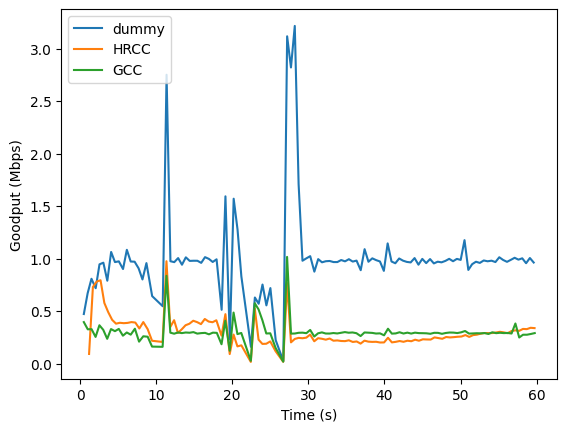
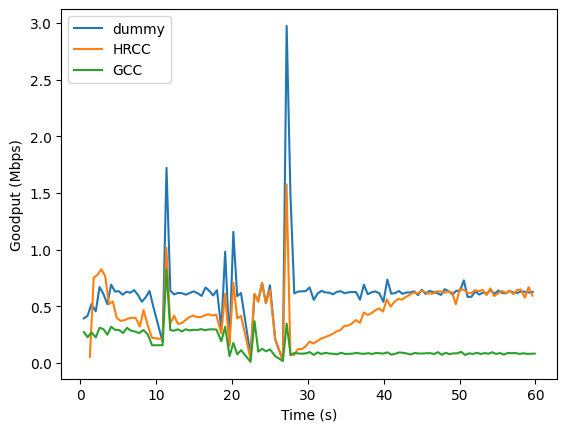
update

diff --git a/utils/draw.py b/utils/draw.py
@@ -1,0 +1,192 @@
+import sys
+import os
+project_root = os.path.dirname(os.path.dirname(os.path.abspath(__file__)))
+sys.path.append(project_root)
+
+from evaluate.utils.net_info import NetInfo
+from evaluate.utils.net_eval_method import NetEvalMethodExtension
+
+from evaluate.eval_video import init_video_argparse, get_video_score
+from evaluate.eval_network import init_network_argparse, get_network_score
+
+from utils.ssim import calculate_video_ssim
+
+import numpy as np
+import matplotlib.pyplot as plt
+import argparse
+import json
+from itertools import cycle
+
+def draw_goodput(time_nbytes_list: list, algs_list: list, save_file_name="hrcc_dummy_put.png", min_gap=500, duration=60):
+    plt.figure()
+    for idx, time_nbytes in enumerate(time_nbytes_list):
+        timestamps = list(time_nbytes.keys())
+        nbytes = list(time_nbytes.values())
+        rel_stamps = [timestamps[i]-timestamps[0] for i in range(len(timestamps))]
+        goodput_list = []
+        prev_time = rel_stamps[0]
+
+        goodput_gap = nbytes[1]
+        goodput_time = []
+        for i in range(1, len(time_nbytes)):
+            if rel_stamps[i] - prev_time < min_gap:
+                goodput_gap += nbytes[i]
+                continue
+            else:
+                goodput_list.append((goodput_gap * 8. /1000.) / (rel_stamps[i] - prev_time) )
+                goodput_time.append(rel_stamps[i])
+                prev_time = rel_stamps[i]
+                goodput_gap = 0
+        
+        plt.plot(goodput_time, goodput_list,  label=algs_list[idx])
+    
+    xticks = np.arange(0, duration*1000+1, 10000)
+    xtick_labels = (xticks / 1000).astype(int)
+    plt.xticks(xticks, xtick_labels)
+    plt.ylabel("Goodput (Mbps)")
+    plt.xlabel("Time (s)")
+    plt.legend(loc='upper left')
+    plt.savefig(f"share/output/figures/{save_file_name}", bbox_inches='tight')
+    
+    return timestamps, rel_stamps
+
+def draw_score(case_name, save_file_name="score.png"):
+    scores = []
+    for alg_name in ["dummy", "HRCC"]:
+        video_parser = init_video_argparse()
+        network_parser = init_network_argparse()
+        parser = argparse.ArgumentParser(parents=[video_parser, network_parser], conflict_handler='resolve')
+        args = parser.parse_args([])
+
+        args.src_video = "share/input/testmedia/test.y4m"
+        args.dst_video = f"share/output/{case_name}/outvideo_{alg_name}.y4m"
+        # args.frame_align_method = "ocr"
+        # args.output = f"share/output/{case_name}/scores_{alg_name}.json"
+        # args.video_size = "1280x720"
+        # args.pixel_format = "420"
+        # args.bitdepth = "8"
+        args.dst_network_log = f"share/output/{case_name}/webrtc_{alg_name}.log"
+        # video_score = get_video_score(args)
+        video_score = calculate_video_ssim(args.src_video, args.dst_video)
+        network_score = get_network_score(args)
+        print(f'video score: {video_score}, network score: {network_score}')
+        final_score = 50 * video_score + network_score
+        scores.append(final_score)
+    
+    plt.figure()
+    labels = ['dummy', 'HRCC']
+    plt.bar(labels, scores, alpha=0.9, width=0.35, facecolor='lightskyblue', edgecolor='white', label='one', lw=1)
+
+    plt.xlabel("Algorithm")
+    plt.ylabel("Score")
+    plt.savefig(f"share/output/figures/{save_file_name}", bbox_inches='tight')
+
+def draw_metrics_from_json_traces(json_file, algorithm_name, metric_x, metric_y, xy_labels:tuple):
+    with open(json_file, 'r') as file:
+        data = json.load(file)
+
+    metrics = []
+    traces = []
+    for trace_name, trace_data in data.items():
+        if algorithm_name in trace_data:
+            algo_data = trace_data[algorithm_name]
+            if metric_x in algo_data and metric_y in algo_data:
+                avg_x = sum(algo_data[metric_x]) / len(algo_data[metric_x])
+                avg_y = sum(algo_data[metric_y]) / len(algo_data[metric_y])
+                metrics.append((avg_x, avg_y, trace_name))
+
+    metrics.sort(reverse=True, key=lambda x: x[0])
+    x_values = [item[0] for item in metrics]
+    y_values = [item[1] for item in metrics]
+    traces = [item[2] for item in metrics]
+
+    markers = cycle(['o', 's', 'D', '^', 'v', '*', 'P', 'X'])
+    colors = cycle(plt.cm.tab10(np.linspace(0, 1, len(traces))))
+
+    plt.figure(figsize=(10, 7))
+    for i, (x, y, trace) in enumerate(zip(x_values, y_values, traces)):
+        marker = next(markers)
+        color = next(colors)
+        plt.scatter(x, y, label=trace, marker=marker, color=color, s=100)
+        # plt.text(x, y, trace, fontsize=9, ha='right')
+
+    plt.gca().invert_xaxis()
+    plt.xlabel(xy_labels[0])
+    plt.ylabel(xy_labels[1])
+    plt.grid(True)
+    plt.legend(title="Traces", loc='upper left')
+    # plt.show()
+
+
+    plt.savefig(f"share/output/figures/{algorithm_name}_{metric_x}_{metric_y}.png", bbox_inches='tight')
+
+def draw_combined_scores_from_json_traces(json_file):
+    with open(json_file, 'r') as file:
+        data = json.load(file)
+
+    traces = list(data.keys())
+    algorithms = ['dummy', 'HRCC', 'GCC']
+    bar_width = 0.2
+
+    heights = {algo: [] for algo in algorithms}
+    for trace_name in traces:
+        for algo in algorithms:
+            if algo in data[trace_name]:
+                algo_data = data[trace_name][algo]
+                avg_ssim = sum(algo_data['SSIM']) / len(algo_data['SSIM'])
+                avg_network_score = sum(algo_data['network score']) / len(algo_data['network score'])
+                heights[algo].append(avg_ssim * 50 + avg_network_score)
+
+    x = np.arange(len(traces))
+    plt.figure(figsize=(12, 6))
+
+    for i, algo in enumerate(algorithms):
+        plt.bar(x + i * (bar_width), heights[algo], width=bar_width, label=algo)
+
+    plt.xticks(x + bar_width, traces)
+    plt.xlabel('Trace')
+    plt.ylabel('Combined Score')
+    plt.ylim(0, 100)
+    plt.legend(title="Algorithm", loc="upper right")
+    plt.grid(axis='y', linestyle='--', alpha=0.7)
+
+    # plt.tight_layout()
+    # plt.show()
+    plt.savefig(f"share/output/figures/trace_scores.png", bbox_inches='tight')
+
+if __name__ == "__main__":
+    ########################################################
+
+    # net_parser1 = NetInfo('share/output/trace/webrtc_HRCC.log')
+    # net_parser2 = NetInfo('share/output/trace/webrtc_dummy.log')
+    # parse_result1 = net_parser1.parse_net_log()
+    # parse_result2 = net_parser2.parse_net_log()
+
+    # net_eval_extension = NetEvalMethodExtension()
+    # result1 = net_eval_extension.eval(net_parser1)
+    # result2 = net_eval_extension.eval(net_parser2)
+    # print(f'self inflicted delay: ', result1[1])
+    # print(f'95 quantile one-way delay: ', result1[2])
+    # print(f'good put: ', result1[3])
+    # print(f'loss rate: ', result1[4])
+    # print('*'*30)
+    # print(f'self inflicted delay: ', result2[1])
+    # print(f'95 quantile one-way delay: ', result2[2])
+    # print(f'good put: ', result2[3])
+    # print(f'loss rate: ', result2[4])
+
+    # draw_goodput([result1[0], result2[0]], ["HRCC", "dummy"], "hrcc_dummy_put_taxi.png")
+
+    ########################################################
+
+    # draw_score("trace", "score_trace_taxi.png")
+
+    ########################################################
+
+    # draw_metrics_from_json("share/output/trace/demo_results.json", "HRCC", "delay1", "goodput", ("Self-inflicted delay (ms)", "Goodput (Mbps)"))
+
+    # for alg in ["dummy", "HRCC", "GCC"]:
+    #     draw_metrics_from_json_traces("share/output/trace/demo_results.json", alg, "delay1", "goodput", ("Self-Inflicted Delay (ms)", "Average Goodput (Mbps)"))
+    #     draw_metrics_from_json_traces("share/output/trace/demo_results.json", alg, "delay2", "goodput", ("95th Percentile One-Way Delay (ms)", "Average Goodput (Mbps)"))
+
+    draw_combined_scores_from_json_traces("share/output/trace/demo_results.json")

diff --git a/demo.py b/demo.py
@@ -3,12 +3,13 @@ import argparse
 import subprocess
 import json
 from collections import defaultdict
+import time
 
 from utils.ssim import calculate_video_ssim
 from evaluate.utils.net_info import NetInfo
 from evaluate.utils.net_eval_method import NetEvalMethodExtension
 from evaluate.eval_network import init_network_argparse, get_network_score
-from draw.draw import draw_goodput
+from utils.draw import *
 
 TRACE_FILES = {
     'att16': ["ATT-LTE-driving-2016.down", "ATT-LTE-driving-2016.down"],
@@ -51,7 +52,7 @@ def run_one_scenario(algorithm: str, trace: str):
     command = ["docker", "compose", "up"]
     print(f"Executing: {command} with algorithm: {algorithm}")
     subprocess.run(command, check=True)
-
+    time.sleep(3)
     command = ["docker", "compose", "down"]
     print(f"Executing: {command} with algorithm: {algorithm}")
     subprocess.run(command, check=True)
@@ -99,11 +100,17 @@ def demo(times=5):
         for i in range(times):
             for alg in ALGORITHMS:
                 run_one_scenario(alg, trace)
-            evaluate_one_scenario(trace, i)
             print(f"({(t_idx)*times+i}/{times*N_TRACES}): Finished {i+1} times of {trace} trace")
+            evaluate_one_scenario(trace, i)
     with open("share/output/trace/demo_results.json", "w", encoding='utf-8') as resf:
         json.dump(RESULTS, resf)
 
+def visual_demo(json_file):
+    for alg in ["dummy", "HRCC", "GCC"]:
+        draw_metrics_from_json_traces(json_file, alg, "delay1", "goodput", ("Self-Inflicted Delay (ms)", "Average Goodput (Mbps)"))
+        draw_metrics_from_json_traces(json_file, alg, "delay2", "goodput", ("95th Percentile One-Way Delay (ms)", "Average Goodput (Mbps)"))
+
+    draw_combined_scores_from_json_traces(json_file)
 
  
 if __name__ == '__main__':
@@ -111,5 +118,5 @@ if __name__ == '__main__':
     # parser.add_argument('--algorithm', '-A', default="all", help='The algorithm to use', choices=["dummy", "HRCC", "GCC", "all"])
     # args = parser.parse_args()
 
-    demo(3)
-    # evaluate_one_scenario("taxi", 0)
+    # demo(3)
+    visual_demo("share/output/trace/demo_results.json")
